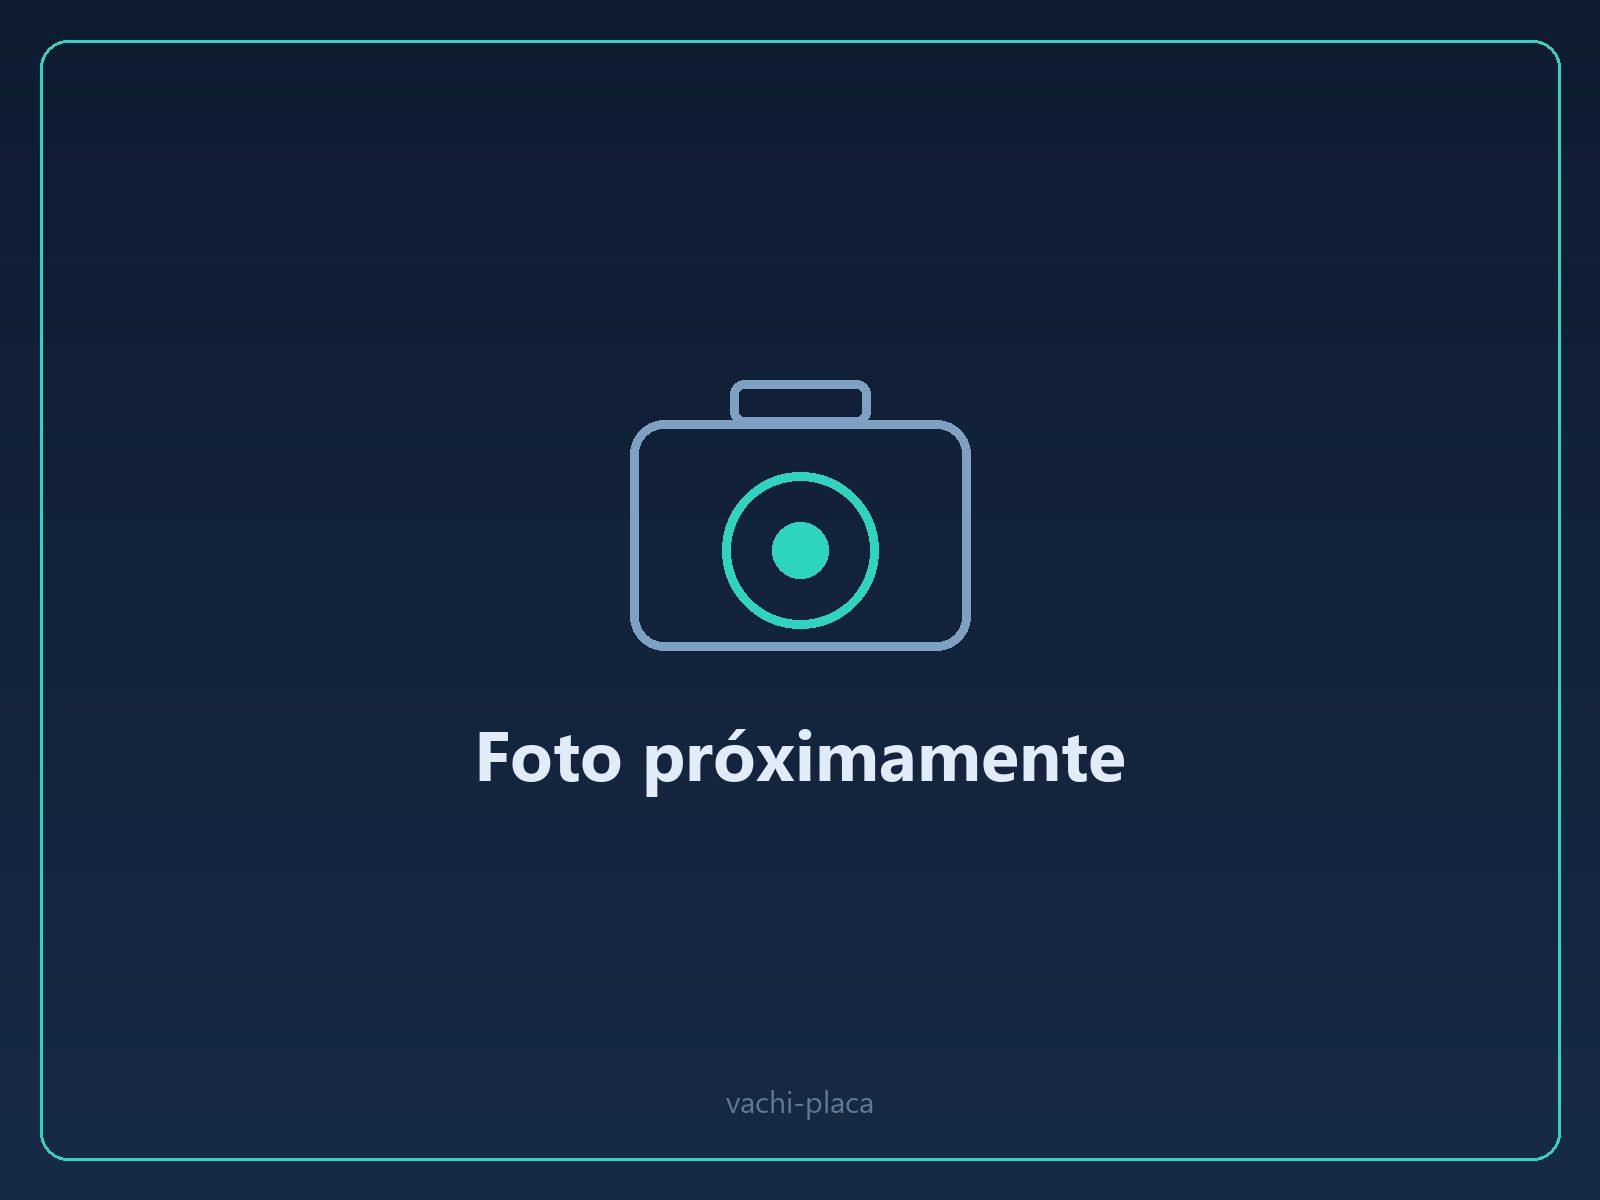
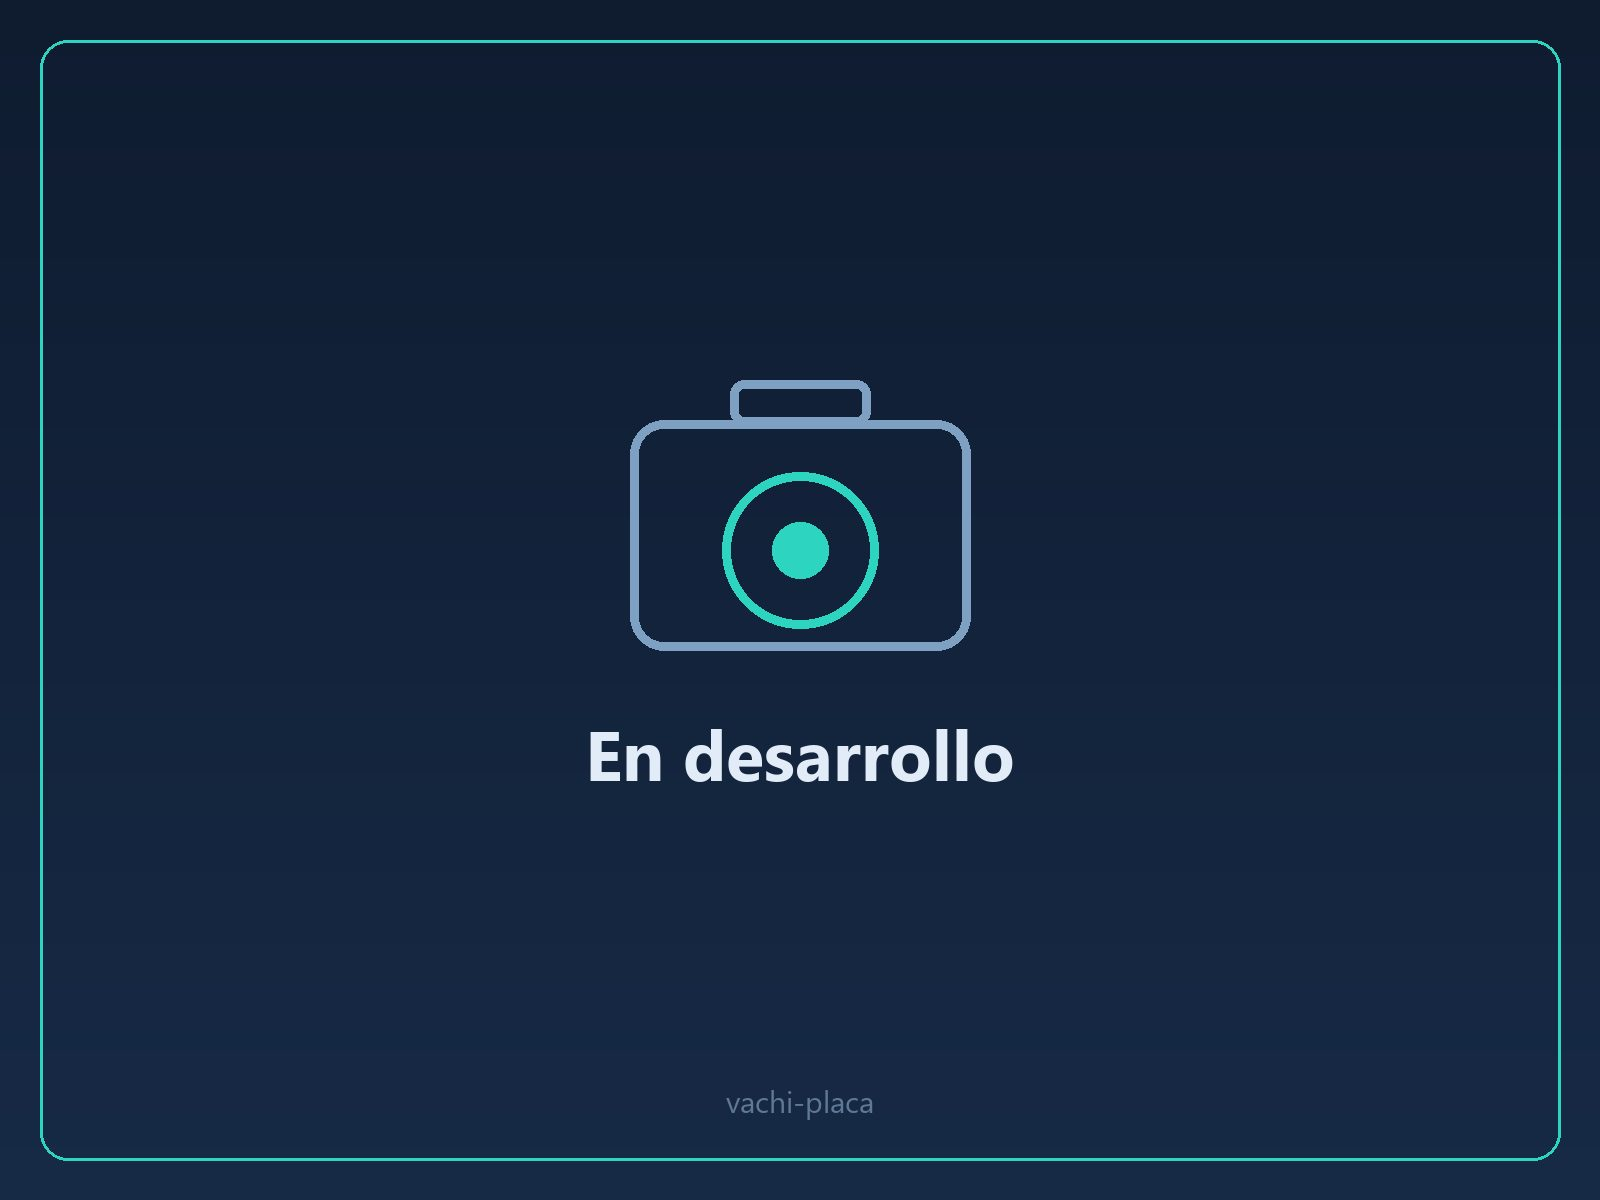
Fotos reales de los proyectos y retiro del VRNOx
- Añade las fotos y renders de V3, V4, SCI v0, LNOX y el amplificador.
- Quita el VRNOx (proyecto sin terminar y sin carcasa presentable).
- El VACHI queda con marcadores "En desarrollo" hasta tener fotos.
- Corrige los pies de imagen: los renders se rotulan como modelos 3D.

Changed region(s): [[0.2812, 0.5858, 0.7188, 0.6783]]

diff --git a/README.md b/README.md
@@ -27,48 +27,48 @@
 
 <table>
   <tr>
-    <td width="33%" valign="top">
-      <a href="proyectos/jnox-watch-v4.md"><img src="assets/img/v4-pcb-frente.jpg" alt="PCB de 4 capas del JNOX Watch V4"></a><br>
+    <td width="33%" valign="top" align="center">
+      <a href="proyectos/jnox-watch-v4.md"><img src="assets/img/v4-pcb-frente.jpg" alt="PCB de 4 capas del JNOX Watch V4" height="240"></a><br>
       <b><a href="proyectos/jnox-watch-v4.md">JNOX Watch V4</a></b><br>
       Reloj con pantalla AMOLED táctil. Mi primera PCB de 4 capas y carcasa sellada en PA12.<br>
       <sub><i>PCB y carcasa fabricadas; ensamblaje en curso.</i></sub>
     </td>
-    <td width="33%" valign="top">
-      <a href="proyectos/jnox-watch-v3.md"><img src="assets/img/v3-muneca.jpg" alt="JNOX Watch V3 en la muñeca"></a><br>
+    <td width="33%" valign="top" align="center">
+      <a href="proyectos/jnox-watch-v3.md"><img src="assets/img/v3-muneca.jpg" alt="JNOX Watch V3 en la muñeca" height="240"></a><br>
       <b><a href="proyectos/jnox-watch-v3.md">JNOX Watch V3</a></b><br>
       Reloj inteligente con GPS, IMU, micrófono y asistente de voz. PCB de 2 capas y carcasa en PA12.<br>
       <sub><i>Funcional. 1 unidad vendida.</i></sub>
     </td>
-    <td width="33%" valign="top">
-      <a href="proyectos/jnox-sci-v0.md"><img src="assets/img/sci-v0-frontal.jpg" alt="JNOX SCI v0, calculadora gráfica programable"></a><br>
+    <td width="33%" valign="top" align="center">
+      <a href="proyectos/jnox-sci-v0.md"><img src="assets/img/sci-v0-frontal.jpg" alt="JNOX SCI v0, calculadora gráfica programable" height="240"></a><br>
       <b><a href="proyectos/jnox-sci-v0.md">JNOX SCI v0</a></b><br>
       Calculadora gráfica programable con teclado táctil, microSD y Lua. Carcasa de 3 piezas en PLA.<br>
       <sub><i>Prototipo funcional.</i></sub>
     </td>
   </tr>
   <tr>
-    <td width="33%" valign="top">
-      <a href="proyectos/lnox-v0.md"><img src="assets/img/lnox-carcasa.jpg" alt="Carcasa del asistente de voz LNOX"></a><br>
+    <td width="33%" valign="top" align="center">
+      <a href="proyectos/lnox-v0.md"><img src="assets/img/lnox-carcasa.jpg" alt="Asistente de voz LNOX con su carcasa en PA12" height="240"></a><br>
       <b><a href="proyectos/lnox-v0.md">LNOX v0</a></b><br>
       Asistente de voz tipo Alexa vinculado al reloj y a la app. Carcasa compacta en PA12.<br>
       <sub><i>Prototipo funcional.</i></sub>
     </td>
-    <td width="33%" valign="top">
-      <a href="proyectos/vachi-v0.md"><img src="assets/img/vachi-placa.jpg" alt="PCB de 4 capas del VACHI v0"></a><br>
+    <td width="33%" valign="top" align="center">
+      <a href="proyectos/vachi-v0.md"><img src="assets/img/vachi-placa.jpg" alt="VACHI v0: fotos en desarrollo" height="240"></a><br>
       <b><a href="proyectos/vachi-v0.md">VACHI v0</a></b><br>
       PCB de 4 capas con etapa de potencia para tres servomotores, para un proyecto de emprendimiento.<br>
-      <sub><i>2 placas armadas y funcionales.</i></sub>
+      <sub><i>Fotos en desarrollo.</i></sub>
     </td>
-    <td width="33%" valign="top">
-      <a href="proyectos/vrnox.md"><img src="assets/img/vrnox-mandos.jpg" alt="Mandos del sistema VRNOx"></a><br>
-      <b><a href="proyectos/vrnox.md">VRNOx</a></b><br>
-      Realidad virtual casera para SteamVR con mandos propios por ESP-NOW.<br>
-      <sub><i>Funcional; afinando el seguimiento de posición.</i></sub>
+    <td width="33%" valign="top" align="center">
+      <a href="proyectos/jnox-app.md"><img src="assets/img/app-hoy.jpg" alt="Pantalla Hoy de la JNOX App" height="240"></a><br>
+      <b><a href="proyectos/jnox-app.md">JNOX App</a></b><br>
+      Aplicación Android del reloj: notificaciones, rutas de GPS y asistente de voz.<br>
+      <sub><i>En revisión en Google Play.</i></sub>
     </td>
   </tr>
 </table>
 
-Además: [JNOX App (Android)](proyectos/jnox-app.md) y [otros trabajos](proyectos/otros-trabajos.md) (kit de clamshells, amplificador analógico, planos para corte láser).
+Además: [otros trabajos](proyectos/otros-trabajos.md) (kit de clamshells, amplificador analógico, planos para corte láser).
 
 ---
 
@@ -112,4 +112,4 @@ Por cuidar mis diseños, no publico el código, los esquemáticos ni los archivo
 
 © 2026 Javier Bonilla Flores. Todos los derechos reservados. Las imágenes y los textos de este repositorio no pueden copiarse, modificarse ni usarse con fines comerciales sin permiso por escrito. Se permite compartir los enlaces. Detalle en [LICENSE](LICENSE).
 
-JNOX, JNOX Watch, LNOX, LIA, SCI y VRNOx son nombres de proyectos propios.
+JNOX, JNOX Watch, LNOX, LIA y SCI son nombres de proyectos propios.

diff --git a/proyectos/jnox-watch-v3.md b/proyectos/jnox-watch-v3.md
@@ -4,7 +4,7 @@
 
 ![JNOX Watch V3 en la muñeca](../assets/img/v3-muneca.jpg)
 
-Reloj de muñeca con GPS propio, IMU, micrófono, vibrador y asistente de voz. Es la placa que después reutilicé en el VRNOx, el LNOX y el SCI v0: **un solo diseño, cuatro usos**.
+Reloj de muñeca con GPS propio, IMU, micrófono, vibrador y asistente de voz. Es la placa que después reutilicé en el LNOX, el SCI v0 y otros prototipos: **un solo diseño, varios usos**.
 
 ## Ficha
 
@@ -19,7 +19,7 @@ Reloj de muñeca con GPS propio, IMU, micrófono, vibrador y asistente de voz. E
 | Software | Firmware en C++ con LVGL, BLE y ESP-NOW, y app Android propia (código no público) |
 
 ![Placa del JNOX V3 armada, sin carcasa](../assets/img/v3-placa-armada.jpg)
-![Carcasa en nylon PA12 del JNOX V3](../assets/img/v3-carcasa-pa12.jpg)
+![Modelo 3D de la carcasa del JNOX V3 en Inventor](../assets/img/v3-carcasa-pa12.png)
 
 ## Mi aporte
 
@@ -42,11 +42,11 @@ Reloj de muñeca con GPS propio, IMU, micrófono, vibrador y asistente de voz. E
 
 - **El nylon PA12 absorbe humedad**, así que la carcasa lleva barniz acrílico. Resiste salpicaduras leves; no es un reloj sumergible.
 - **Planos de tierra y pistas de ancho variable según la señal**, como mejora del ruteo respecto a la V2.
-- **Hardware reutilizable**: la placa expone pads de los GPIO libres, lo que permitió convertirla en mandos de VR, en un parlante y en una calculadora sin rediseñarla.
+- **Hardware reutilizable**: la placa expone pads de los GPIO libres, lo que permitió convertirla en un parlante y en una calculadora sin rediseñarla.
 
 ## Estado
 
-Funcional. Una unidad vendida, que sigue en uso sin fallas ni quejas. Las demás placas se usan como base del [VRNOx](vrnox.md), el [LNOX](lnox-v0.md) y el [SCI v0](jnox-sci-v0.md).
+Funcional. Una unidad vendida, que sigue en uso sin fallas ni quejas. Las demás placas se usan como base del [LNOX](lnox-v0.md), el [SCI v0](jnox-sci-v0.md) y otros prototipos.
 
 ## Evidencia
 

diff --git a/proyectos/lnox-v0.md b/proyectos/lnox-v0.md
@@ -2,7 +2,7 @@
 
 *Asistente de voz inteligente (parlante) · hardware del JNOX V3 · carcasa a medida en nylon PA12*
 
-![Carcasa del LNOX en nylon PA12](../assets/img/lnox-carcasa.jpg)
+![Asistente de voz LNOX con su carcasa en nylon PA12](../assets/img/lnox-carcasa.jpg)
 
 Asistente de voz tipo Alexa, con funciones de agente, que se vincula al reloj JNOX y a la app Android. Reutiliza la placa del [JNOX V3](jnox-watch-v3.md) y añade una salida de audio propia.
 
@@ -14,9 +14,10 @@ Asistente de voz tipo Alexa, con funciones de agente, que se vincula al reloj JN
 | Audio | Salida I2S con conversor PCM5102A y etapa de amplificación propia; música desde microSD |
 | Conectividad | Wi-Fi, BLE y ESP-NOW (enlace directo con el reloj) |
 | Servicio en la nube | Cloudflare Worker que coordina el reconocimiento de voz, el modelo de lenguaje y la síntesis de voz (código y endpoints no públicos) |
-| Carcasa | Nylon PA12 a medida, diseñada en Autodesk Inventor, lo más compacta posible y con una salida de audio de geometría compleja |
+| Interfaz | Pantalla OLED, 3 pulsadores y ranura para tarjeta microSD en la tapa superior |
+| Carcasa | Nylon PA12 a medida, diseñada en Autodesk Inventor, lo más compacta posible y con dos rejillas de audio de patrón geométrico |
 
-![Salida de audio de la carcasa del LNOX](../assets/img/lnox-rejilla-audio.jpg)
+![Modelo 3D de las rejillas de audio de la carcasa del LNOX](../assets/img/lnox-rejilla-audio.png)
 
 ## Qué hace
 

diff --git a/proyectos/jnox-watch-v4.md b/proyectos/jnox-watch-v4.md
@@ -2,7 +2,7 @@
 
 *Reloj AMOLED táctil · primera PCB de 4 capas · carcasa sellada en nylon PA12*
 
-![PCB de 4 capas del JNOX Watch V4, cara superior](../assets/img/v4-pcb-frente.jpg)
+![PCB de 4 capas del JNOX Watch V4, vista 1](../assets/img/v4-pcb-frente.jpg)
 
 Reloj de muñeca con pantalla AMOLED táctil, GPS, IMU de 9 ejes, salida de audio y microSD, dentro de una caja de unos 5 × 4,6 × 2,3 cm. Es el salto de la [V3](jnox-watch-v3.md): de 2 a 4 capas, de USB-C a pines pogo y de una carcasa abierta a una sellable.
 
@@ -21,9 +21,9 @@ Reloj de muñeca con pantalla AMOLED táctil, GPS, IMU de 9 ejes, salida de audi
 | Tamaño | ≈ 5 × 4,6 × 2,3 cm |
 | Resistencia al agua | Diseñada para IP67. **Es un cálculo teórico; la validación experimental está pendiente.** |
 
-![PCB del JNOX Watch V4, cara inferior](../assets/img/v4-pcb-reverso.jpg)
-![Carcasa del JNOX Watch V4 en nylon PA12](../assets/img/v4-carcasa-pa12.jpg)
-![Render de la carcasa del JNOX Watch V4](../assets/img/v4-render.png)
+![PCB de 4 capas del JNOX Watch V4, vista 2](../assets/img/v4-pcb-reverso.jpg)
+![Carcasa del JNOX Watch V4 en nylon PA12, impresa](../assets/img/v4-carcasa-pa12.jpg)
+![Modelo 3D del JNOX Watch V4 en Inventor](../assets/img/v4-render.png)
 
 ## Mi aporte
 

diff --git a/proyectos/vachi-v0.md b/proyectos/vachi-v0.md
@@ -2,7 +2,9 @@
 
 *PCB de 4 capas con etapa de potencia para servomotores · proyecto de emprendimiento*
 
-![PCB de 4 capas del VACHI v0](../assets/img/vachi-placa.jpg)
+![VACHI v0: fotos en desarrollo](../assets/img/vachi-placa.jpg)
+
+*Las placas están con el equipo que las usa en el concurso; las fotos se añadirán más adelante.*
 
 Hardware de un dispositivo con pantalla y tres servomotores que se comunican entre sí por radio ESP-NOW. La idea y los requisitos son de un compañero; yo diseñé la PCB y el mecanismo de montaje de los servos. Participa en Equipu, el laboratorio de emprendimientos universitarios.
 
@@ -18,7 +20,7 @@ Hardware de un dispositivo con pantalla y tres servomotores que se comunican ent
 | Comunicación | ESP-NOW, con detección de cercanía por la intensidad de la señal |
 | Mecánica | Soporte de montaje de los servomotores, diseñado por mí |
 
-![Soporte mecánico de los servomotores del VACHI](../assets/img/vachi-servos.jpg)
+![Soporte de los servomotores del VACHI: foto en desarrollo](../assets/img/vachi-servos.jpg)
 
 ## Mi aporte
 

diff --git a/proyectos/jnox-sci-v0.md b/proyectos/jnox-sci-v0.md
@@ -4,6 +4,8 @@
 
 ![JNOX SCI v0](../assets/img/sci-v0-frontal.jpg)
 
+*Prototipo con la carcasa impresa en PLA, mostrando la función de lugar de las raíces.*
+
 Calculadora de ingeniería con pantalla y teclado táctiles de 54 teclas, microSD, audio y un intérprete de Lua para escribir programas. La v0 es una **demostración sobre la placa del JNOX V3**: sin rediseñar la PCB, con dos módulos de pantalla añadidos.
 
 [Short en YouTube mostrando la reproducción de vídeo](https://www.youtube.com/shorts/5ruWCYLRwf0)
@@ -21,7 +23,7 @@ Calculadora de ingeniería con pantalla y teclado táctiles de 54 teclas, microS
 
 ![Teclado táctil de 54 teclas: capas base, SHIFT y ALPHA](../assets/img/sci-teclado-capas.png)
 ![Pantallas del módulo de control: PID, respuesta al escalón y Bode](../assets/img/sci-pantallas-control.png)
-![Piezas de la carcasa del SCI v0](../assets/img/sci-carcasa-piezas.jpg)
+![Modelo 3D de la carcasa del SCI v0 en Inventor](../assets/img/sci-carcasa-piezas.png)
 
 ## Mi aporte
 
